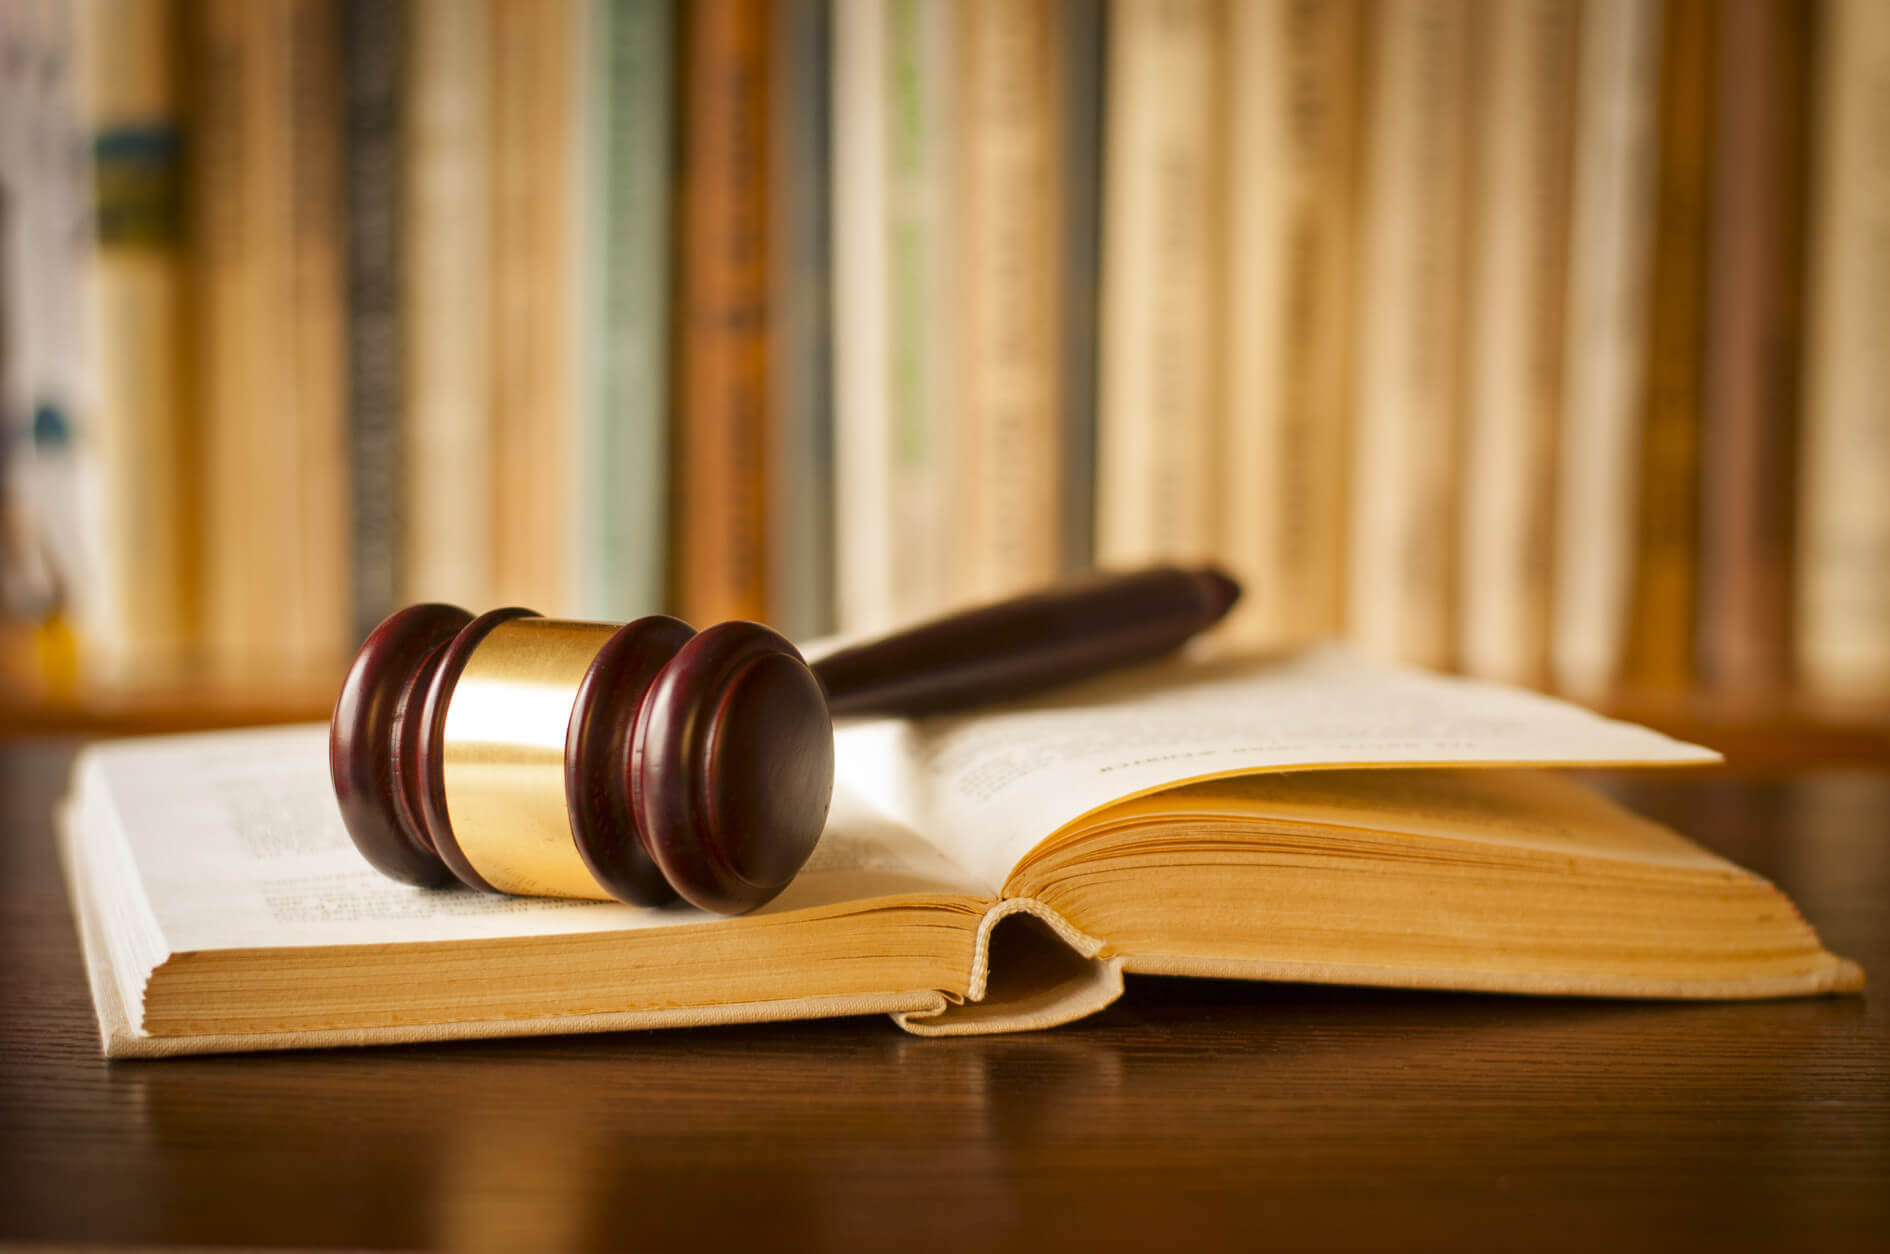
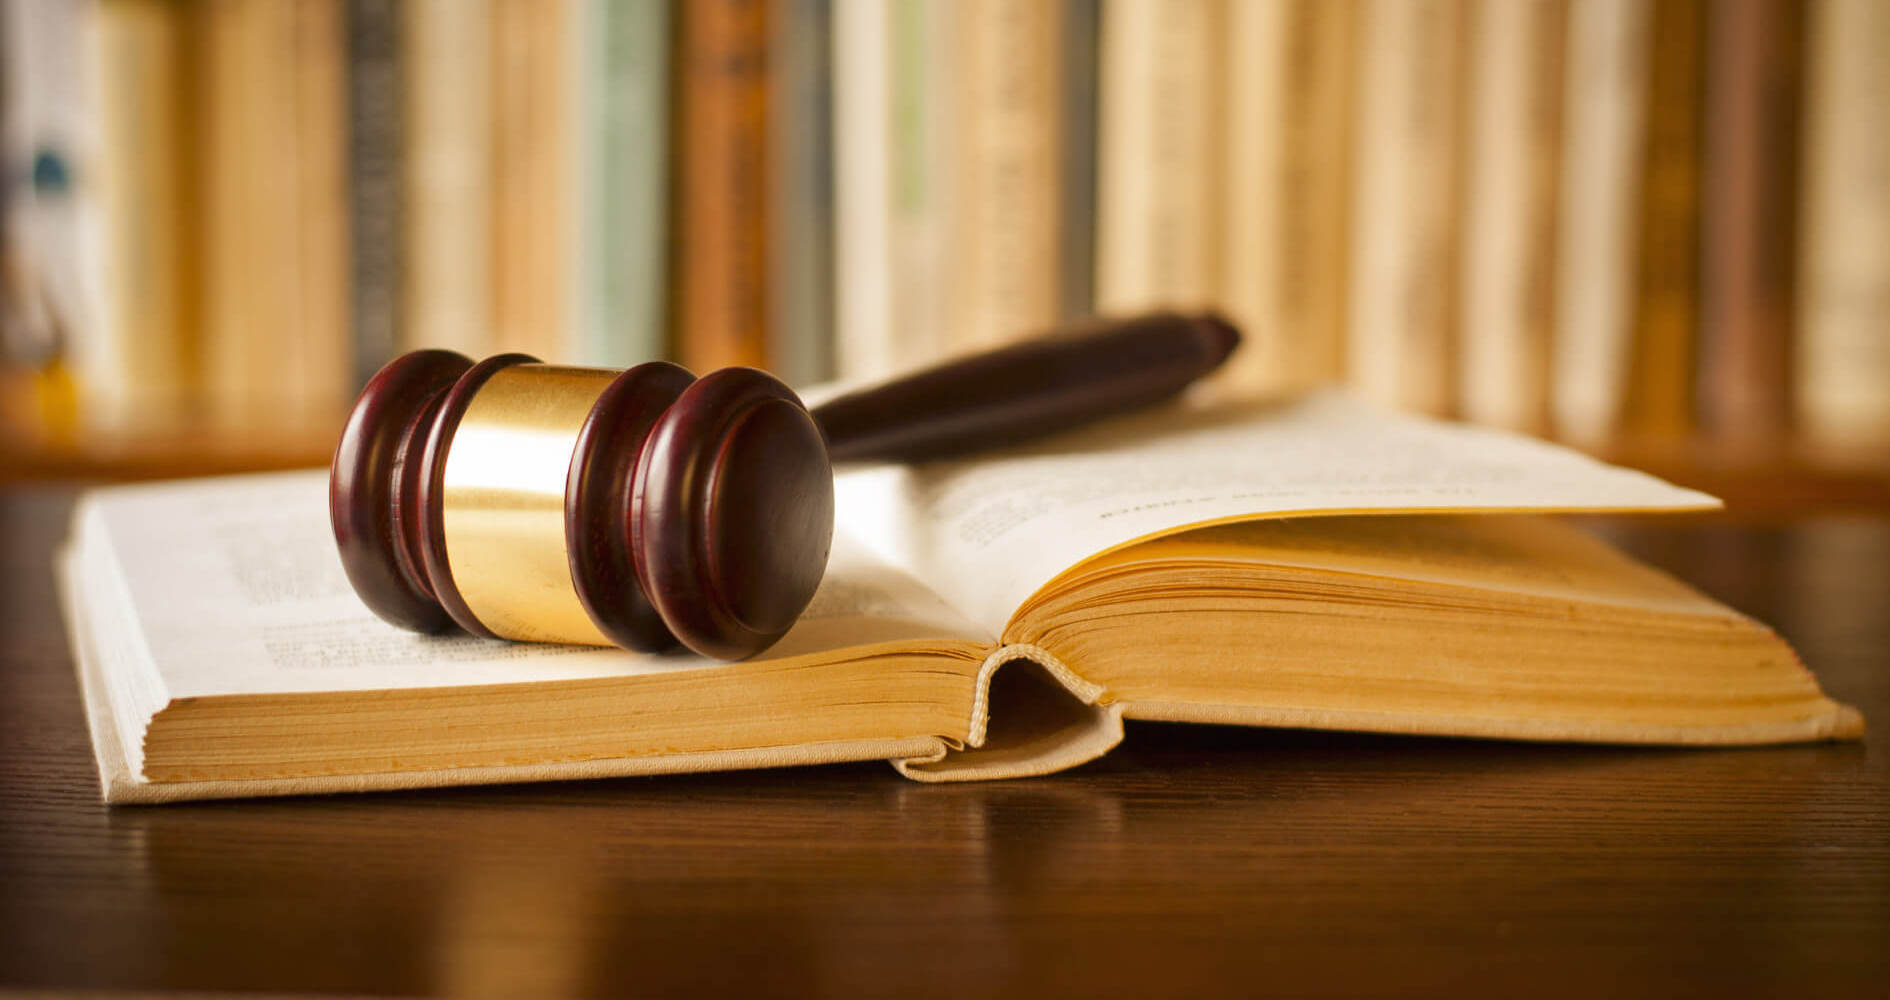
image updates

diff --git a/index.html b/index.html
@@ -569,9 +569,9 @@
 
 		    </section><a id="thepartners" class="in-page-link"></a>
 
-            <section class="m-auto image-bg bg-dark parallax overlay pt120 pb120">
+            <section class="m-auto image-bg bg-dark parallax overlay-heavy pt120 pb120">
                 <div class="background-image-holder">
-                    <img alt="Background Image" class="background-image" src="assets/img/home-2-3.jpg" />
+                    <img alt="Background Image" class="background-image" src="assets/img/bieser_greer-law-book.jpg" />
                 </div>
                 <div class="container">
                     <div class="row">
@@ -585,9 +585,9 @@
                 <!--end of container-->
             </section>
             <a id="theattorneys" class="in-page-link"></a>
-            <section class="m-auto image-bg bg-dark parallax overlay pt120 pb120">
+            <section class="m-auto image-bg bg-dark parallax overlay-heavy pt120 pb120">
                 <div class="background-image-holder">
-                    <img alt="Background Image" class="background-image" src="assets/img/home-2-7.jpg" />
+                    <img alt="Background Image" class="background-image" src="assets/img/bieser_greer-dayton_court_house.jpg" />
                 </div>
                 <div class="container">
                     <div class="row">
@@ -602,7 +602,7 @@
             </section><a id="thecouncil" class="in-page-link"></a>
             <section class="image-bg bg-dark parallax overlay pt120 pb120">
                 <div class="background-image-holder">
-                    <img alt="Background Image" class="background-image" src="assets/img/home-2-6.jpg" />
+                    <img alt="Background Image" class="background-image" src="assets/img/bieser_greer-library.jpg" />
                 </div>
                 <div class="container">
                     <div class="row">
